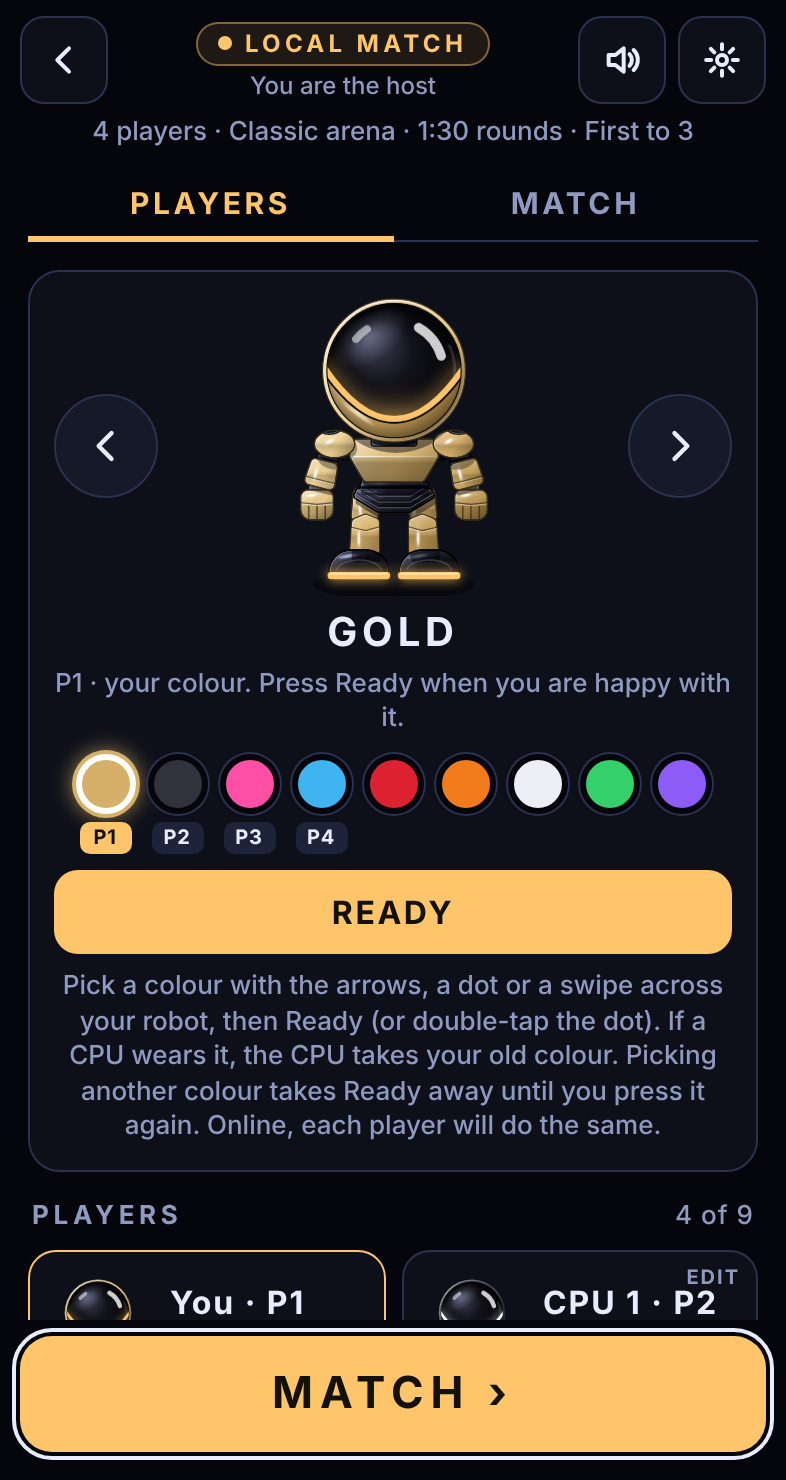
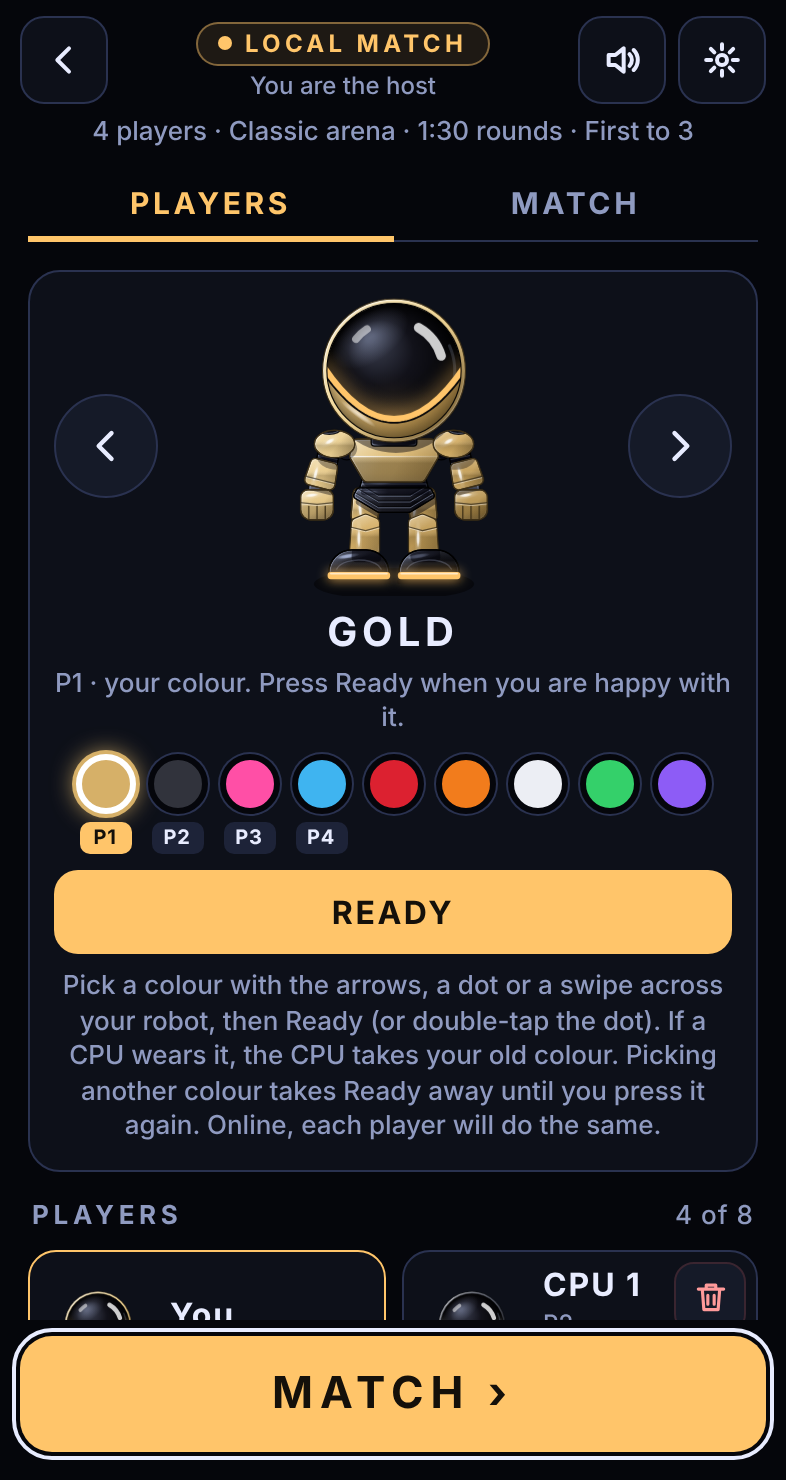
Settings order, eight players at most, a bin on each CPU card
Settings pages are now Controls, Sound, Graphics, in that order, and
open on Controls. A match has at most eight players: you and up to
seven CPU players. Each CPU player's card has a bin that removes it at
once, with an Undo bar for six seconds; Remove on its panel works the
same way and no longer asks first.

Claude-Session: https://claude.ai/code/session_011ftAyXDt63myZfd3j4Vhew

diff --git a/src/page.html b/src/page.html
@@ -23,9 +23,9 @@
               dots youDots; the player cards in slots; allCpus) and lobbyMatch (the arena picture arenaPic with
               arenaPrev, arenaNext, arenaDots; the rules; rulesReset); then lobbyPrev, lobbyStart, lobbyNext
     cpuSheet  a CPU player's panel, over the lobby: colour and level (cpuRows), cpuRemove, cpuDone
-    settings  your own settings, three pages: setSound (soundOpts), setControls (Steering thumb: handLeft,
-              handRight; Swipe direction: dirStandard, dirMine, matchState, matchStart; padOpts; keys) and
-              setGraphics (gfxOpts); then setPrev, setDone, setNext
+    settings  your own settings, three pages: setControls (Steering thumb: handLeft, handRight; Swipe
+              direction: dirStandard, dirMine, matchState, matchStart; padOpts; keys), setSound (soundOpts)
+              and setGraphics (gfxOpts); then setPrev, setDone, setNext
     pause     the menu during a match: pauseState, pauseTitle, pauseInfo, standings, pauseResume, pauseSettings,
               pauseRestart, pauseNewMatch, pauseLobby
     confirm   "are you sure?" before anything that cannot be undone (ui.ts)
@@ -422,7 +422,7 @@
   .foot-note { flex: 0 0 auto; margin: 0 14px; text-align: center; font: 500 13px/1.3 var(--font-body); color: #ff9a9a; min-height: 0; }
   .foot-note:empty { display: none; }
   .foot-note.info { color: var(--accent); }
-  .rdy { display: inline-block; margin-top: 5px; padding: 2px 6px; font: 700 11px/1.2 var(--font-display); letter-spacing: 0.06em; text-transform: uppercase; color: var(--ink-dim); border: 1px solid var(--line); border-radius: 6px; }
+  .rdy { display: inline-block; white-space: nowrap; margin-top: 5px; padding: 2px 6px; font: 700 11px/1.2 var(--font-display); letter-spacing: 0.06em; text-transform: uppercase; color: var(--ink-dim); border: 1px solid var(--line); border-radius: 6px; }
   .rdy.on { color: #5cff8e; border-color: rgba(92, 255, 142, 0.45); }
   .go.big { padding: 18px 12px; font-size: 22px; letter-spacing: 0.16em; border-radius: 16px; }
   .go.danger { color: #ff9a9a; background: transparent; border: 1.5px solid #5a2a34; }
@@ -474,6 +474,15 @@
   .slot.add { grid-template-columns: 1fr; justify-items: center; align-content: center; gap: 4px; color: var(--ink-dim); background: transparent; border: 1.5px dashed var(--line); }
   .slot.add svg { width: 24px; height: 24px; fill: none; stroke: currentColor; stroke-width: 2.4; stroke-linecap: round; }
   .slot.add b { font-size: 14px; }
+  .slot-wrap { position: relative; display: grid; }
+  .slot-wrap .slot { padding-right: 8px; }
+  .slot-wrap .slot b, .slot-wrap .slot small { padding-right: 32px; }
+  .bin { position: absolute; top: 6px; right: 6px; width: 36px; height: 36px; display: grid; place-items: center; padding: 0; cursor: pointer; color: #ff9a9a; background: #151a28; border: 1px solid #3a2530; border-radius: 10px; }
+  .bin svg { width: 19px; height: 19px; fill: none; stroke: currentColor; stroke-width: 2; stroke-linecap: round; stroke-linejoin: round; }
+  .bin:disabled { opacity: 0.25; cursor: default; }
+  .undo { flex: 0 0 auto; display: flex; align-items: center; justify-content: space-between; gap: 10px; margin: 4px 12px 0; padding: 6px 6px 6px 14px; font: 500 13px/1.3 var(--font-body); background: #1d2338; border: 1px solid var(--line); border-radius: 12px; }
+  .undo[hidden] { display: none; }
+  .undo .mini { color: var(--accent); border-color: rgba(255, 197, 106, 0.45); }
   .slot .edit { position: absolute; top: 8px; right: 8px; font: 700 10px/1 var(--font-display); letter-spacing: 0.1em; text-transform: uppercase; color: var(--ink-dim); }
   /* the settings rows (ui.ts) */
   .opts { display: flex; flex-direction: column; gap: 6px; }
@@ -707,7 +716,7 @@
         <div class="sec-head"><span>Players</span><span id="playerCount"></span></div>
         <div class="slots" id="slots"></div>
         <div class="opts" id="allCpus"></div>
-        <p class="hint" id="playersNote">Tap a CPU player to change its colour or level, or to remove it. Up to 9 players: you and 8 CPU players. With more than 6, the arena grows by two tiles each way. CPU players are always ready.</p>
+        <p class="hint" id="playersNote">Tap a CPU player to change its colour or level. The bin removes it at once (Undo brings it back). Up to 8 players: you and 7 CPU players. With more than 6, the arena grows by two tiles each way. CPU players are always ready.</p>
       </section>
       <section id="lobbyMatch" class="page" role="tabpanel" aria-labelledby="pgMatch">
         <div class="sec-head"><span>Arena</span><span id="arenaCount"></span></div>
@@ -727,6 +736,7 @@
       </section>
     </div>
   </div>
+  <div class="undo" id="undoBar" role="status" hidden><span id="undoText"></span><button class="mini" id="undoBtn" type="button">Undo</button></div>
   <p class="foot-note" id="startNote" role="status"></p>
   <footer class="foot">
     <button id="lobbyPrev" class="side-btn" type="button"><svg viewBox="0 0 24 24" aria-hidden="true"><path d="M15 5l-7 7 7 7"/></svg><span>Players</span></button>
@@ -764,15 +774,12 @@
     <div class="bar-end"></div>
   </header>
   <nav class="pages three" role="tablist" aria-label="Settings pages">
-    <button type="button" role="tab" id="pgSound" aria-controls="setSound">Sound</button>
     <button type="button" role="tab" id="pgControls" aria-controls="setControls">Controls</button>
+    <button type="button" role="tab" id="pgSound" aria-controls="setSound">Sound</button>
     <button type="button" role="tab" id="pgGraphics" aria-controls="setGraphics">Graphics</button>
   </nav>
   <div class="scroll">
     <div class="cols one">
-      <section id="setSound" class="page" role="tabpanel" aria-labelledby="pgSound">
-        <div class="opts" id="soundOpts"></div>
-      </section>
       <section id="setControls" class="page" role="tabpanel" aria-labelledby="pgControls">
       <fieldset class="tune">
         <legend>Steering thumb</legend>
@@ -800,6 +807,9 @@
           <p class="sub">In the menus: Tab moves between buttons, ← and → change a setting, Q and E switch pages.</p>
           <p class="sub">Game controllers are not supported yet.</p>
         </div>
+      </section>
+      <section id="setSound" class="page" role="tabpanel" aria-labelledby="pgSound">
+        <div class="opts" id="soundOpts"></div>
       </section>
       <section id="setGraphics" class="page" role="tabpanel" aria-labelledby="pgGraphics">
         <div class="opts" id="gfxOpts"></div>

diff --git a/src/lobby.ts b/src/lobby.ts
@@ -20,6 +20,7 @@ import { BOT_LEVELS, LEVELS } from './bot';
 import { COLORS, colorById, drawRobot, drawStatic, drawDynamic, ROBOT } from './render';
 import { createWorld, MAX_BOMBS, MAX_FIRE, MAX_SPEED_ITEMS, START_FIRE } from './sim';
 import {
+  CpuSlot,
   ARENAS,
   BRICKS,
   CLOSE_IN,
@@ -205,7 +206,7 @@ export function createLobby(host: LobbyHost): {
     me.setAttribute('aria-label', `You, P1, ${colorById(host.myColor).name}, ${ready ? 'ready' : 'not ready'}`);
     const mc = document.createElement('canvas');
     const mt = document.createElement('div');
-    mt.innerHTML = `<b>You · P1</b><small>${colorById(host.myColor).name}</small><span class="rdy${ready ? ' on' : ''}">${ready ? '✓ Ready' : 'Not ready'}</span>`;
+    mt.innerHTML = `<b>You</b><small>P1 · ${colorById(host.myColor).name}</small><span class="rdy${ready ? ' on' : ''}">${ready ? '✓ Ready' : 'Not ready'}</span>`;
     me.append(mc, mt);
     box.append(me);
     const cvs: [HTMLCanvasElement, string][] = [[mc, host.myColor]];
@@ -217,13 +218,23 @@ export function createLobby(host: LobbyHost): {
       b.setAttribute('aria-label', `CPU ${i + 1}, P${i + 2}, ${colorById(c.colorId).name}, ${LEVELS[c.level].label}, ready. Tap to change.`);
       const cv = document.createElement('canvas');
       const t = document.createElement('div');
-      t.innerHTML = `<b>CPU ${i + 1} · P${i + 2}</b><small>${LEVELS[c.level].label} · ${colorById(c.colorId).name}</small><span class="rdy on">✓ Ready</span>`;
-      const edit = document.createElement('span');
-      edit.className = 'edit';
-      edit.textContent = 'Edit';
-      b.append(cv, t, edit);
+      t.innerHTML = `<b>CPU ${i + 1}</b><small>P${i + 2} · ${LEVELS[c.level].label} · ${colorById(c.colorId).name}</small><span class="rdy on">✓ Ready</span>`;
+      b.append(cv, t);
       b.addEventListener('click', () => openSheet(i));
-      box.append(b);
+      // the bin: removes this CPU player at once (Undo brings it back)
+      const bin = document.createElement('button');
+      bin.type = 'button';
+      bin.className = 'bin';
+      bin.id = `bin-${i + 1}`;
+      bin.innerHTML = '<svg viewBox="0 0 24 24" aria-hidden="true"><path d="M4 7h16M9 7V4.5h6V7M6.5 7l1 13h9l1-13M10 11v5.5M14 11v5.5"/></svg>';
+      const only = s().cpus.length <= 1;
+      bin.disabled = only;
+      bin.setAttribute('aria-label', only ? 'A match needs at least one CPU player' : `Remove CPU ${i + 1}`);
+      bin.addEventListener('click', () => removeCpu(i));
+      const wrap = document.createElement('div');
+      wrap.className = 'slot-wrap';
+      wrap.append(b, bin);
+      box.append(wrap);
       cvs.push([cv, c.colorId]);
     });
     if (s().cpus.length < MAX_CPUS) {
@@ -283,16 +294,43 @@ export function createLobby(host: LobbyHost): {
     if (e.target === sheet) closeSheet();
   });
   $('cpuRemove').addEventListener('click', () => {
-    if (s().cpus.length <= 1) return;
     const i = editing;
-    confirmFirst(`Remove CPU ${i + 1}?`, `${colorById(s().cpus[i].colorId).name} leaves the match. You can add a CPU player again at any time.`, 'Remove', (yes) => {
-      if (!yes) return;
-      s().cpus.splice(i, 1);
-      sheet.hidden = true;
-      editing = -1;
-      changed();
-      $('slotAdd')?.focus({ preventScroll: true });
-    });
+    sheet.hidden = true;
+    editing = -1;
+    removeCpu(i);
+  });
+
+  // ------------------------------------------------------------ removing, and Undo
+  /** The CPU player removed last, and where it was, until Undo is pressed or the bar goes away. */
+  let removed: { cpu: CpuSlot; at: number } | null = null;
+  let undoTimer = 0;
+  /**
+   * Remove a CPU player at once (the bin on its card, or Remove on its panel): the owner asked for a quick
+   * way. A bar with Undo shows for a few seconds instead of asking first. The last CPU player stays.
+   */
+  function removeCpu(i: number): void {
+    if (s().cpus.length <= 1 || !s().cpus[i]) return;
+    const [cpu] = s().cpus.splice(i, 1);
+    removed = { cpu, at: i };
+    $('undoText').textContent = `CPU ${i + 1} (${colorById(cpu.colorId).name}) removed.`;
+    $('undoBar').hidden = false;
+    clearTimeout(undoTimer);
+    undoTimer = window.setTimeout(hideUndo, 6000);
+    changed();
+    ($(`bin-${Math.min(i + 1, s().cpus.length)}`) ?? $('slotAdd'))?.focus({ preventScroll: true });
+  }
+  function hideUndo(): void {
+    removed = null;
+    $('undoBar').hidden = true;
+  }
+  $('undoBtn').addEventListener('click', () => {
+    if (!removed || s().cpus.length >= MAX_CPUS) return hideUndo();
+    const { cpu, at } = removed;
+    // its colour back if nobody has taken it meanwhile, else a free one
+    const free = freeFor(-1);
+    s().cpus.splice(Math.min(at, s().cpus.length), 0, { ...cpu, colorId: free.includes(cpu.colorId) ? cpu.colorId : free[0] });
+    hideUndo();
+    changed();
   });
   function refreshSheet(): void {
     if (editing < 0 || !s().cpus[editing]) return;
@@ -575,6 +613,7 @@ export function createLobby(host: LobbyHost): {
       $('lobbyStart').focus({ preventScroll: true });
     },
     hide(): void {
+      hideUndo();
       $('lobby').hidden = true;
       sheet.hidden = true;
       editing = -1;

diff --git a/src/sim.ts b/src/sim.ts
@@ -232,7 +232,7 @@ export interface WorldConfig {
   /** playable columns and rows, not counting the outer wall (odd numbers). Default 13 by 11. */
   cols?: number;
   rows?: number;
-  /** one entry per player, up to nine (MAX_PLAYERS); where each starts is `spawnPoints` */
+  /** one entry per player, up to eight (MAX_PLAYERS); where each starts is `spawnPoints` */
   players: { colorId: string }[];
   /** share of open tiles that start as bricks, 0 to 1. Default 0.78. */
   softDensity?: number;
@@ -319,14 +319,14 @@ export function makeRng(seed: number): () => number {
   };
 }
 
-/** The most players a round can have: one for each bot colour. */
-export const MAX_PLAYERS = 9;
+/** The most players a round can have (the owner's limit: eight in all). */
+export const MAX_PLAYERS = 8;
 
 /**
  * Start tiles for `n` players (1 to MAX_PLAYERS), spread out as the owner asked: four players start in
  * the corners; a fifth in the middle; six put two in the middle row instead, a third of the way in from
  * each side; seven add the middle of the top and bottom edges to five; eight use the corners and the middle
- * of all four edges; nine add the middle again. In player order: you (top-left), bottom-right, top-right,
+ * of all four edges. In player order: you (top-left), bottom-right, top-right,
  * bottom-left, then the rest. A tile on a pillar is moved one to the right.
  */
 export function spawnPoints(w: number, h: number, n = 4): { x: number; y: number }[] {
@@ -344,8 +344,7 @@ export function spawnPoints(w: number, h: number, n = 4): { x: number; y: number
   if (n === 5) return [...corners, middle];
   if (n === 6) return [...corners, at(third, cy), at(w - 1 - third, cy)];
   if (n === 7) return [...corners, middle, top, bottom];
-  if (n === 8) return [...corners, top, bottom, left, right];
-  return [...corners, top, bottom, left, right, middle];
+  return [...corners, top, bottom, left, right];
 }
 
 /**

diff --git a/tests/rules.test.ts b/tests/rules.test.ts
@@ -1158,9 +1158,9 @@ for (let seed = 1; seed <= 40; seed++) {
   }
 }
 
-// 22. up to nine players: everyone starts on a clear tile of their own, spread over the arena
+// 22. up to eight players: everyone starts on a clear tile of their own, spread over the arena
 {
-  assert.equal(MAX_PLAYERS, 9);
+  assert.equal(MAX_PLAYERS, 8);
   for (const [cols, rows] of [[11, 9], [13, 11], [15, 13], [17, 15]]) {
     for (let n = 1; n <= MAX_PLAYERS; n++) {
       const players = Array.from({ length: n }, (_, i) => ({ colorId: String(i) }));
@@ -1178,5 +1178,5 @@ for (let seed = 1; seed <= 40; seed++) {
     }
   }
   // the first four are always the corners, in the usual order
-  assert.deepEqual(spawnPoints(15, 13, 9).slice(0, 4), [{ x: 1, y: 1 }, { x: 13, y: 11 }, { x: 13, y: 1 }, { x: 1, y: 11 }]);
+  assert.deepEqual(spawnPoints(15, 13, 8).slice(0, 4), [{ x: 1, y: 1 }, { x: 13, y: 11 }, { x: 13, y: 1 }, { x: 1, y: 11 }]);
 }

diff --git a/src/main.ts b/src/main.ts
@@ -1114,10 +1114,10 @@ $('change').addEventListener('click', () => (matchWinner >= 0 ? showLobby(true) 
 // ------------------------------------------------ Settings
 
 type SetTab = 'sound' | 'controls' | 'graphics';
-const SET_TABS: SetTab[] = ['sound', 'controls', 'graphics'];
+const SET_TABS: SetTab[] = ['controls', 'sound', 'graphics']; // the owner's order
 const SET_NAMES: Record<SetTab, string> = { sound: 'Sound', controls: 'Controls', graphics: 'Graphics' };
 const SET_IDS: Record<SetTab, [string, string]> = { sound: ['pgSound', 'setSound'], controls: ['pgControls', 'setControls'], graphics: ['pgGraphics', 'setGraphics'] };
-let setTab: SetTab = 'sound';
+let setTab: SetTab = 'controls';
 /** where Settings goes back to: the lobby, or the menu during a match */
 let setFrom: 'lobby' | 'pause' = 'lobby';
 

diff --git a/src/setup.ts b/src/setup.ts
@@ -67,8 +67,8 @@ export const ITEM_NAMES: [ItemKind, string, string][] = [
 export const ROUND_MIN = 30;
 export const ROUND_MAX = 300;
 export const ROUND_STEP = 15;
-/** The most CPU players a local match can have: nine players in all, one for each colour. */
-export const MAX_CPUS = 8;
+/** The most CPU players a local match can have: eight players in all (MAX_PLAYERS in sim.ts). */
+export const MAX_CPUS = 7;
 /** With more players than this, every arena is two tiles wider and taller (the owner's plan: past six, the map gets bigger). */
 export const GROW_AFTER = 6;
 /** Rounds to win a match: first to 1 to 9. */

diff --git a/CLAUDE.md b/CLAUDE.md
@@ -37,12 +37,12 @@ Do not undo these unless asked. The reasons are in `docs/ROADMAP.md` and `docs/C
 - Controls: see-through swipe pad on the left, B above A on the right. Swipe from wherever the thumb is; keep it down to keep moving; lift to stop.
 - The robot stops where you let go. Whole-tile stepping was tried and rejected (`stepAssist` exists in `sim.ts` but stays off, with no menu setting).
 - A resting thumb has a quiet zone; small movements, slow drift and bounce-back are ignored. Its size is fixed (`QUIET` 30 px). A menu choice of swipe length was tried and removed: do not bring it back unless asked.
-- The lobby (`lobby.ts`, setup in `setup.ts`), built to the owner's notes on an approved mockup: every button works, back and forward work, more than one way to do each thing, a switch that reveals a slider under it, more options, each CPU player's level its own, and saying whether play is local or online. Two pages, Players and Match. The Players page cannot start a match (the owner's call): its bottom bar is one wide **Match ›** button. The Match page has ‹ Players and **Start**; Start when you are not ready asks first ("Ready as Gold and start"), and a line above the bar says you are not ready. On a wide screen both pages show side by side and the button is Start. Players: your colour by ‹ ›, dots or a swipe; a card per player; a CPU player's panel (Colour, Level, Remove, Done); Add CPU player up to eight (nine players in all, one per colour); All CPUs. Match (the host's): the arena (Compact, Classic, Big) and the rules (Round timer with length and Closing in, Rounds to win, Bricks, Custom start, Custom power-ups; Put the rules back to normal). Sliders have − and + beside them. Saved as it changes. Build any new setting from `ui.ts` controls, and only add one that really does something.
-- Ask first (`confirmFirst` in `ui.ts`) before anything that cannot be undone: Remove a CPU player, Restart round, New match, Leave to the lobby, Put the rules back to normal. Nothing else asks. Escape goes back one step everywhere; Q and E turn pages.
+- The lobby (`lobby.ts`, setup in `setup.ts`), built to the owner's notes on an approved mockup: every button works, back and forward work, more than one way to do each thing, a switch that reveals a slider under it, more options, each CPU player's level its own, and saying whether play is local or online. Two pages, Players and Match. The Players page cannot start a match (the owner's call): its bottom bar is one wide **Match ›** button. The Match page has ‹ Players and **Start**; Start when you are not ready asks first ("Ready as Gold and start"), and a line above the bar says you are not ready. On a wide screen both pages show side by side and the button is Start. Players: your colour by ‹ ›, dots or a swipe; a card per player; a CPU player's panel (Colour, Level, Remove, Done); Add CPU player up to seven (eight players in all: the owner's limit); a bin on each CPU player's card removes it at once, with Undo; All CPUs. Match (the host's): the arena (Compact, Classic, Big) and the rules (Round timer with length and Closing in, Rounds to win, Bricks, Custom start, Custom power-ups; Put the rules back to normal). Sliders have − and + beside them. Saved as it changes. Build any new setting from `ui.ts` controls, and only add one that really does something.
+- Ask first (`confirmFirst` in `ui.ts`) before anything that cannot be undone: Restart round, New match, Leave to the lobby, Put the rules back to normal. Removing a CPU player (the bin on its card, or Remove on its panel) does not ask, as the owner wanted it quick: it shows an Undo bar for six seconds instead. Nothing else asks. Escape goes back one step everywhere; Q and E turn pages.
 - A match: the first to the lobby's Rounds to win (3 by default) wins; the result panel then offers Rematch or Lobby, otherwise Next round or Menu. If you are knocked out and press Next round while CPU players are still fighting, one of those still in gets the round at random, and its point (`settleUnfinished` in `main.ts`; the owner's call, for solo play against CPU players; the panel says so). That point can win the match. Leaving for the lobby ends the match and drops its score; players and rules change only between matches.
 - The menu during a match (`openPause` in `main.ts`) pauses the round and is kept short, as the owner asked: what is going on (Local match chip, Paused or Round over, round number, rules, time left, every player's state and rounds won), Resume, Settings, then the host's Restart round (off once the round is over), New match and Leave to the lobby. Online, only the host will have those three, and the round will not pause.
-- Settings (`showSettings` in `main.ts`) are each player's own: Sound (on/off with the volume under it, a switch and ▶ for each sound), Controls (steering thumb, swipe direction, touch controls strength, keys), Graphics (sharpness, ghosts, less movement). From the lobby's gear and speaker, and from the menu during a match; Done goes back where it came from. No music switch until there is music. Game controllers are not supported yet.
-- Your colour is yours for the whole match. A round's players, colours and CPU levels are set in `newWorld` in `main.ts`, from the lobby's setup, and nowhere else. Colours can only be changed in the lobby, between matches, and always stay different. You pick a colour (arrows, a dot, a swipe; it shows on your robot) and press **Ready** (it was OK; renamed by the owner) to take it, which pops up a P1 tag under its dot (P2 to P9 sit under the CPU players' colours) and puts a ✓ Ready check on your player card. CPU players' cards always show ✓ Ready. Picking another colour takes Ready away until it is pressed again. Ready resets on each fresh visit to the lobby (from the title or a match), not on coming back from Settings. You can take a CPU player's colour: that CPU player gets the one you had. A CPU player can only be given a free colour on its own panel. Online, each player will press Ready on their own colour and can change and press it again until the start (the owner's plan). Menus to come that choose a colour must follow the same rule.
+- Settings (`showSettings` in `main.ts`) are each player's own, in the owner's order: Controls (steering thumb, swipe direction, touch controls strength, keys), Sound (on/off with the volume under it, a switch and ▶ for each sound), Graphics (sharpness, ghosts, less movement). From the lobby's gear and speaker, and from the menu during a match; Done goes back where it came from. No music switch until there is music. Game controllers are not supported yet.
+- Your colour is yours for the whole match. A round's players, colours and CPU levels are set in `newWorld` in `main.ts`, from the lobby's setup, and nowhere else. Colours can only be changed in the lobby, between matches, and always stay different. You pick a colour (arrows, a dot, a swipe; it shows on your robot) and press **Ready** (it was OK; renamed by the owner) to take it, which pops up a P1 tag under its dot (P2 to P8 sit under the CPU players' colours) and puts a ✓ Ready check on your player card. CPU players' cards always show ✓ Ready. Picking another colour takes Ready away until it is pressed again. Ready resets on each fresh visit to the lobby (from the title or a match), not on coming back from Settings. You can take a CPU player's colour: that CPU player gets the one you had. A CPU player can only be given a free colour on its own panel. Online, each player will press Ready on their own colour and can change and press it again until the start (the owner's plan). Menus to come that choose a colour must follow the same rule.
 - The menu button (`#menuBtn`) is three bars, not the word Menu, so the scoreboard fits beside the timer.
 - The timer counts down 1 minute 30 unless the lobby sets another length (`ROUND_TICKS`; it was 2 minutes at first; `roundTicks` in `createWorld`, 0 = no timer, which is what most tests use). When it reaches 0:00 the blocks start to fall, and take 50 seconds (`SHRINK_TICKS`). They fall one at a time in `world.shrinkOrder`: round the edge clockwise from the top-left corner, then two more rings inward, then the two columns beside the middle. (At first they fell during the last minute of the timer; changed in play-testing.) Each is in the air 0.63 s (`FALL_TICKS` 38) over a marked tile (the blocks were made 20% faster in play-testing: a minute and 0.75 s at first; keep the two in step), then turns it solid for good, knocks out a robot under it (a shield does not help), and removes a bomb, power-up, brick or blast there (`fallBlocks` in `sim.ts`).
 - A 5 by 5 square in the middle is never touched (`KEEP_OPEN`, `keptOpen`). When the blocks stop the round goes on there until someone wins; it has no time limit. The first version closed the whole arena and half the rounds were draws on the last tile: do not go back to that.
@@ -74,8 +74,8 @@ Do not undo these unless asked. The reasons are in `docs/ROADMAP.md` and `docs/C
 - Robots are drawn from sprites (`sprite`, `drawRobot`, `warmRobots` in `robot.ts`; `warmSprites` in `render.ts`, called every frame from `main.ts`). Never draw a robot piece by piece every frame. A new pose that changes the picture needs to be part of the sprite's key; one that only moves, turns or scales it (`jump`, `lean`, `shrink`, the crown) does not.
 - The soft rounding inside each piece (`FINE`, `softly`) is only for artwork over 500 pixels tall. It blurs with a canvas shadow because iPhones lack the canvas blur filter, and has only been tried in Chrome: try it on an iPhone before using it on a screen of the game.
 - Bricks and solid blocks fill their tile. Power-ups are a square of pulsing colour 83% of a tile across (`ITEM_SIZE` in `render.ts`; made 10% smaller than the first size), bobbing slowly over a shadow (`ITEM_BOB`, `ITEM_BOB_RATE`).
-- Up to nine players (`MAX_PLAYERS` in `sim.ts`): you and one to eight CPU players. Where they start is `spawnPoints` (the owner's plan): four in the corners; a fifth in the middle; six put two in the middle row a third of the way in; seven add the middle of the top and bottom edges to five; eight use the corners and the middle of each edge; nine add the middle. With more than six players the arena is two tiles bigger each way (`GROW_AFTER`, `arenaSize` in `setup.ts`). With more than four, the scoreboard has one place per player: upright in the free line under the top bar (the line kept for information), sideways in rows of five under the timer, with the swipe pad starting under them (`--pad-top`).
-- The other bots are CPU players (`src/bot.ts`, explained in `docs/CPU-PLAYERS.md`): one to eight, as the lobby says. Nine Hard CPU players took under half a millisecond a tick on a laptop. Three levels: Beginner, Normal (default) and Hard, set for each CPU player on its own in the lobby (or all at once with All CPUs). A saved `cpuLevel` from before the lobby becomes every CPU player's level.
+- Up to eight players (`MAX_PLAYERS` in `sim.ts`; the owner's limit, after a first version allowed nine): you and one to seven CPU players. Where they start is `spawnPoints` (the owner's plan): four in the corners; a fifth in the middle; six put two in the middle row a third of the way in; seven add the middle of the top and bottom edges to five; eight use the corners and the middle of each edge. With more than six players the arena is two tiles bigger each way (`GROW_AFTER`, `arenaSize` in `setup.ts`). With more than four, the scoreboard has one place per player: upright in the free line under the top bar (the line kept for information), sideways in rows of five under the timer, with the swipe pad starting under them (`--pad-top`).
+- The other bots are CPU players (`src/bot.ts`, explained in `docs/CPU-PLAYERS.md`): one to seven, as the lobby says. Nine Hard CPU players took under half a millisecond a tick on a laptop (measured when nine were allowed). Three levels: Beginner, Normal (default) and Hard, set for each CPU player on its own in the lobby (or all at once with All CPUs). A saved `cpuLevel` from before the lobby becomes every CPU player's level.
 - CPU players get a `PlayerInput` like a person and nothing more: no extra speed, no seeing under bricks.
 - CPU players want a shield, never go looking for a curse, and Normal and above walk round one when there is another way (`dodgeCurse`). They know where blocks will fall, each level looking a different distance ahead (`blockSight`), and move inward ahead of them; they keep fighting while they do. Once the timer has run out and they are standing in the square, Normal and Hard press (`squareBold`, `emboldened` in `bot.ts`): they bomb any player in line, use every bomb, drop bombs beside players to take their room away, and stop holding back in case a rival shuts their way out. Beginner does not. They do not take risks because they hold a shield. Once a shield has taken a blast they use the half second to walk out through it (`sparedFor`).
 - No level is careless with its own bombs. Before pressing A every level needs a way out, no watched player able to shut it (`guard`), and the move played forward on a copy of the world (`placeBomb`). Easy levels are easy by being slow and unambitious. There were four levels at first; Extreme was renamed Hard, the old Hard was dropped, and Normal was eased a little (`think` 16, `hesitate` 6 to 26, `notice` 22, `hunt` 0.55, `attack` 0.5). A saved `cpuLevel` of `extreme` is read as `hard`. Beginner was eased once already after play-testing (`hesitate` 40 to 110, `notice` 70, `hunt` 0.12, `attack` 0.2); if it is still too hard, those four and `think` are the ones to turn further.

diff --git a/docs/ROADMAP.md b/docs/ROADMAP.md
@@ -22,7 +22,7 @@ Agreed with the owner in November 2026, after he listed everything he wants the 
 
 **The backbone, in order**
 
-1. **Match setup and screens.** A title screen, then a lobby that holds the settings: round length, rounds per match, CPU level and your colour. The warm-up, a more realistic bomb with a fuse that burns down, is done. The title screen and the lobby are built (November 2026), with Settings and a new menu for during a match; both are being play-tested. Teams wait for step 3. Up to nine players works locally already.
+1. **Match setup and screens.** A title screen, then a lobby that holds the settings: round length, rounds per match, CPU level and your colour. The warm-up, a more realistic bomb with a fuse that burns down, is done. The title screen and the lobby are built (November 2026), with Settings and a new menu for during a match; both are being play-tested. Teams wait for step 3. Up to eight players works locally already.
 2. **Online.** A small server, room codes, a join-room screen, up to nine players.
 3. **Modes.** Teams, a zombie mode, knocked-out players throwing bombs from the border as angels, and lives per game.
 
@@ -123,11 +123,13 @@ This is the brief the project started from.
 | The soft rounding of each piece is for large artwork only | It would be less than a pixel at playing size. It also relies on a drawing trick that could not be tried on an iPhone from Claude's side, so nothing in the game depends on it. |
 | The game opens on a title screen | Step 1 of the plan from here. The name, BomberBot, with "Bot" in gold, and "Last bot standing" under it; the two modes at the bottom. Between them, drawn in code: your robot in the colour you last chose, front and centre, waving every 6.5 seconds; two rivals a step behind (blue and pink, or the next bright colours if yours is one of them); a bomb with a lit fuse at its feet; and the arena behind them, the robots in an open corridor across it, fading into the dark behind the name and the buttons. Sideways, the name and buttons are on the left and the robots on the right. Claude's design; the owner had said he would like a title screen made from robot art. |
 | The title screen offers the two modes, Local and Online, and no settings | The owner's choice, after a first version with Play and Controls: the first thing a player decides is how they are playing, and settings belong in the lobby. Local ("On this phone, against CPU players") goes to the lobby. Online ("With friends, by room code") is shown but switched off, marked coming soon, until online play (step 2) is built; it will lead to joining or making a room. The lobby's back button goes back to the title screen. |
+| Settings in the order Controls, Sound, Graphics | The owner's order. Settings opens on Controls the first time, then on the page last seen. |
+| A bin on each CPU player's card | The owner asked for a quick way to remove CPU players. The bin removes one at once; an Undo bar shows for six seconds instead of asking first. Remove on a CPU player's panel works the same way. The last CPU player's bin is switched off. |
 | The lobby (November 2026) | Built after the owner's brainstorm and a mockup he approved, then his notes on it: every button must work, back and forward must work, allow for what the player meant in more than one way, a switch that reveals a slider under it, more options for every setting, each CPU player's level its own, and say whether the match is local or online. Two pages, Players and Match, with page names along the top and the other page's name either side of Start at the bottom; on a wide screen both side by side. **Players:** your colour three ways (‹ ›, a dot each, a swipe across the robot); a card per player; a CPU player's card opens its panel (Colour, Level, Remove, Done); Add CPU player, up to three; All CPUs sets every level at once. **Match** (the host's): the arena (Compact, Classic, Big; ‹ ›, dots or a swipe; the picture is the real arena) and the rules: Round timer (switch; length and Closing in under it), Rounds to win, Bricks, Custom start (switch; bombs, blast, speed under it), Custom power-ups (switch; one slider per power-up under it), and Put the rules back to normal. Every slider has − and + beside it. Everything is saved as it changes. A "Local match" chip and "You are the host" are at the top, with a one-line summary of the match. Claude's design within those notes. |
-| Allowing for what the player meant | Read as two things: more than one way to do each thing (arrows, dots, swipes, tapping a switch's name as well as the switch, − and + beside sliders, keys: ← →, Q and E for pages, Escape back one step), and asking first before anything that cannot be undone (Remove a CPU player, Restart round, New match, Leave to the lobby, Put the rules back to normal). Nothing else asks. |
+| Allowing for what the player meant | Read as two things: more than one way to do each thing (arrows, dots, swipes, tapping a switch's name as well as the switch, − and + beside sliders, keys: ← →, Q and E for pages, Escape back one step), and asking first before anything that cannot be undone (Restart round, New match, Leave to the lobby, Put the rules back to normal; removing a CPU player at first, until the owner asked for a quick bin, which shows Undo instead). Nothing else asks. |
 | Picking your colour, then Ready | The owner's design: in solo play you can pick any colour, a CPU player's included, and a CPU player wearing it takes the one you had. Picking shows the colour on your robot; **Ready** (first called OK; renamed by the owner) makes it yours, pops up a P1 tag under its dot, and puts a ✓ Ready check on your player card. Tags P2 to P9 sit under the CPU players' colours, and their cards are always ✓ Ready. A double tap on a dot is a quick Ready. Picking another colour takes Ready away until it is pressed again. Ready resets for every match, not when coming back from Settings. Online, every player will press Ready on their own colour, and can pick another and press it again. (The lobby's first version greyed out the CPU players' colours.) Colours can only change in the lobby, between matches. |
 | The Players page cannot start a match | The owner's call: its bottom bar is one wide Match › button, so the only way on is the Match page, where Start is. Start when you are not ready asks first, and the Match page says you are not ready. On a wide screen, with both pages showing, the button is Start. |
-| Up to nine players | The owner asked for up to eight CPU players (nine in all, one per colour), with starting places as he set out before: four in the corners, a fifth in the middle, six with two in the middle row, and past six a bigger arena (two tiles bigger each way). Seven to nine also use the middle of the edges (`spawnPoints` in `sim.ts`, tested for every count and size: everyone on open floor, at least four tiles apart). With more than four players the scoreboard has a place for each: upright in the free line under the top bar, sideways in rows of five. Nine Hard CPU players cost under half a millisecond a tick on a laptop. Online play will use the same places. |
+| Up to eight players | The owner asked for up to eight CPU players at first, then set the limit at eight players in all (seven CPU players). Starting places follow his plan: four in the corners, a fifth in the middle, six with two in the middle row, and past six a bigger arena (two tiles bigger each way). Seven and eight also use the middle of the edges (`spawnPoints` in `sim.ts`, tested for every count and size: everyone on open floor, at least four tiles apart). With more than four players the scoreboard has a place for each: upright in the free line under the top bar, sideways in rows of five. Nine Hard CPU players cost under half a millisecond a tick on a laptop. Online play will use the same places. |
 | Next round while you are out gives the round to a CPU player | The owner's call for solo play: if you are knocked out and press Next round while CPU players are still fighting, one of those still in, picked at random, gets the round and its point, so the score always moves. If that point wins the match, the match result shows instead of a new round. The knocked-out panel says this will happen. Online, rounds will be played out instead. |
 | Matches | The first to win the lobby's Rounds to win (3 unless changed) wins the match. The result panel then says so with the final score and offers Rematch or Lobby. Leaving a match for the lobby ends it, and the score is not kept: the players and rules can only change between matches. |
 | The menu during a match | Kept short, as the owner asked: what is going on (Local match, Paused or Round over, which round, the rules, time left, each player's state and rounds won), Resume, Settings, then the host's Restart round, New match and Leave to the lobby. Restart round is off once the round is over. Online, only the host will have those three, and the round will keep going behind the menu. |

diff --git a/docs/CONTROLS.md b/docs/CONTROLS.md
@@ -47,7 +47,7 @@ The caption on the swipe pad (*Standard swipes* or *My thumb swipes*) is centred
 
 **Local** on the title screen opens the **lobby**, where a match is set up. It has two pages, **Players** and **Match**. The page names along the top switch pages. On the Players page the bottom bar is **Match ›**; on the Match page it is **‹ Players** and **Start** (Start when you are not ready asks first). On a wide screen both pages show side by side.
 
-- **Players:** your robot, with ‹ › either side, a dot for each colour under it, and a swipe across the robot: three ways to pick a colour. It shows on your robot, and becomes yours when you press **Ready** (or double-tap the dot): a **P1** tag pops up under it and your card shows **✓ Ready**. **P2** to **P9** sit under the CPU players' colours, and CPU players are always ready. Take a CPU player's colour and it gets the one you had. Picking another colour takes Ready away until you press it again. This page has no Start: its bottom bar is one wide **Match ›** button. Then a card for each player. Tap a CPU player's card for its panel: Colour, Level (with what that level does), Remove (asks first) and Done. **Add CPU player** adds one, up to eight. With more than six players the arena grows by two tiles each way. **All CPUs** sets every CPU player's level at once.
+- **Players:** your robot, with ‹ › either side, a dot for each colour under it, and a swipe across the robot: three ways to pick a colour. It shows on your robot, and becomes yours when you press **Ready** (or double-tap the dot): a **P1** tag pops up under it and your card shows **✓ Ready**. **P2** to **P8** sit under the CPU players' colours, and CPU players are always ready. Take a CPU player's colour and it gets the one you had. Picking another colour takes Ready away until you press it again. This page has no Start: its bottom bar is one wide **Match ›** button. Then a card for each player. Tap a CPU player's card for its panel: Colour, Level (with what that level does), Remove and Done. The **bin** on a CPU player's card removes it at once; an **Undo** bar shows for a few seconds. **Add CPU player** adds one, up to seven (eight players in all). With more than six players the arena grows by two tiles each way. **All CPUs** sets every CPU player's level at once.
 - **Match** (the host's): the arena, with ‹ ›, dots or a swipe (Compact 11 by 9 tiles, Classic 13 by 11, Big 15 by 13; the picture is the real arena, with the bricks the rules ask for), then the rules: Round timer (a switch; when on, Round length and Closing in appear under it), Rounds to win, Bricks, Custom start (a switch; Bombs, Blast and Speed under it), Custom power-ups (a switch; a slider for each power-up under it). **Put the rules back to normal** asks first.
 - Every slider has − and + beside it, and every setting is saved on this device as it changes.
 
@@ -55,8 +55,8 @@ The caption on the swipe pad (*Standard swipes* or *My thumb swipes*) is centred
 
 | Page | What is on it |
 |---|---|
-| **Sound** | Sound effects on or off, with the volume under it when on. Then a switch for each sound, with ▶ to hear it. |
 | **Controls** | **Steering thumb** and **Swipe direction** (both described below), how strongly the touch controls show, and the keyboard keys. |
+| **Sound** | Sound effects on or off, with the volume under it when on. Then a switch for each sound, with ▶ to hear it. |
 | **Graphics** | Sharpness (Sharpest, Balanced, Battery saver), Ghosts on or off, Less movement. |
 
 The **menu during a match** (the three bars at the top right, or Escape) pauses the round. It says whether the match is local, whether the round is paused or over, which round it is, the rules and the time left, and every player's state (in or out) and rounds won. Then **Resume** (back into the round, or back to its result), **Settings**, and the host's choices: **Restart round** (the score stays), **New match** (the score goes back to 0) and **Leave to the lobby**. Those three ask first.

diff --git a/README.md b/README.md
@@ -23,13 +23,13 @@ Working today:
 - Bombs, blasts, chain reactions and seven power-ups, two of them very rare
 - Kicking bombs, and lifting and throwing them
 - Touch controls made for one thumb on each side, steered with the left or the right thumb, with a swipe pad that can be matched to your own thumb
-- One to eight CPU players, each with its own colour and level: Beginner, Normal or Hard (nine players in all; past six the arena grows)
+- One to seven CPU players, each with its own colour and level: Beginner, Normal or Hard (eight players in all; past six the arena grows)
 - A round timer (1 minute 30 unless the lobby says otherwise): when it reaches zero, blocks fall round the edge and inward for 50 seconds, leaving a 5 by 5 square in the middle to fight it out in
 - A scoreboard of four heads beside the timer that counts the rounds each player has won, with a crown for whoever is in the lead
 - A knock-out that burns the bot to ash while its ghost floats away, and a winner that jumps and dances
 - A title screen: your robot in your colour, waving, with two rivals and a lit bomb, and a choice of Local or Online (online is coming)
 - A lobby to set up a match: your colour, the CPU players, the arena (three sizes), and the rules: round timer and how fast the blocks close in, rounds to win the match, bricks, what everyone starts with, and how often each power-up turns up
-- Settings of your own: sound (volume, and a switch for each sound), controls, and graphics
+- Settings of your own: controls, sound (volume, and a switch for each sound) and graphics
 - A menu during a match that says what is going on, with Resume, Settings, Restart round, New match and Leave to the lobby (those last three ask first)
 - Keyboard controls for playing on a computer
 - Sound effects

diff --git a/docs/GAME-RULES.md b/docs/GAME-RULES.md
@@ -12,7 +12,7 @@ The game runs at a fixed 60 ticks a second. Times below are given in seconds wit
 - **Solid blocks** never break. They are the outer wall plus a pillar on every second tile in both directions. The pillars turn the arena into a grid of lanes.
 - **Bricks** can be blasted away. At the start each open tile has a 78% chance of holding a brick. The lobby's Bricks setting changes that: Few 50%, Some 65%, Normal 78%, Lots 86%, Packed 93%.
 - Each player's starting tile and the tiles next to it are always left clear, so nobody starts boxed in.
-- Two to nine players (you and one to eight CPU players, as the lobby says). The first four start in the corners, in this order: top-left, bottom-right, top-right, bottom-left. You are always top-left. A fifth starts in the middle. With six, the fifth and sixth start in the middle row, a third of the way in from each side. Seven add the middle of the top and bottom edges to the five; eight use the corners and the middle of all four edges; nine add the middle. With more than six players the arena is two tiles wider and taller.
+- Two to eight players (you and one to seven CPU players, as the lobby says). The first four start in the corners, in this order: top-left, bottom-right, top-right, bottom-left. You are always top-left. A fifth starts in the middle. With six, the fifth and sixth start in the middle row, a third of the way in from each side. Seven add the middle of the top and bottom edges to the five; eight use the corners and the middle of all four edges. With more than six players the arena is two tiles wider and taller.
 - The layout comes from a seed number. The same seed always builds the same arena. The game picks a new random seed for every round.
 
 ## Moving
